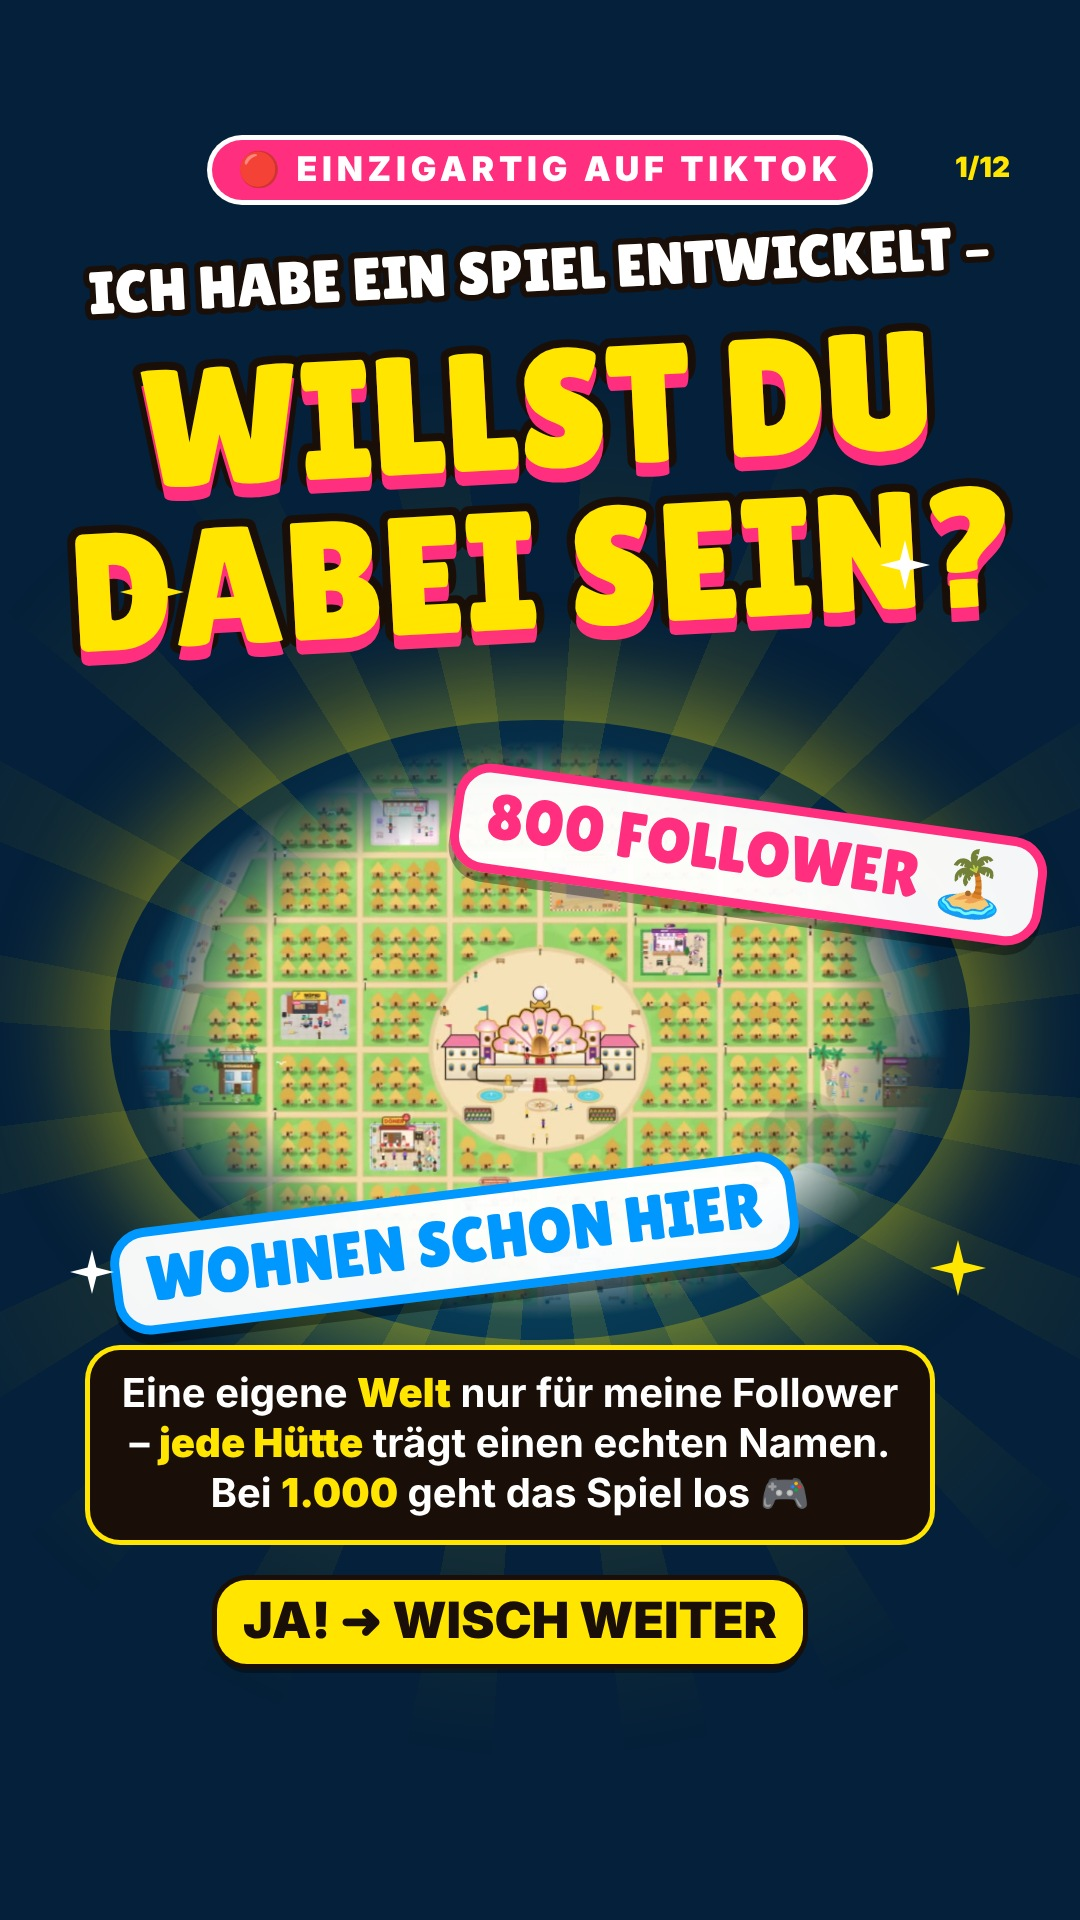
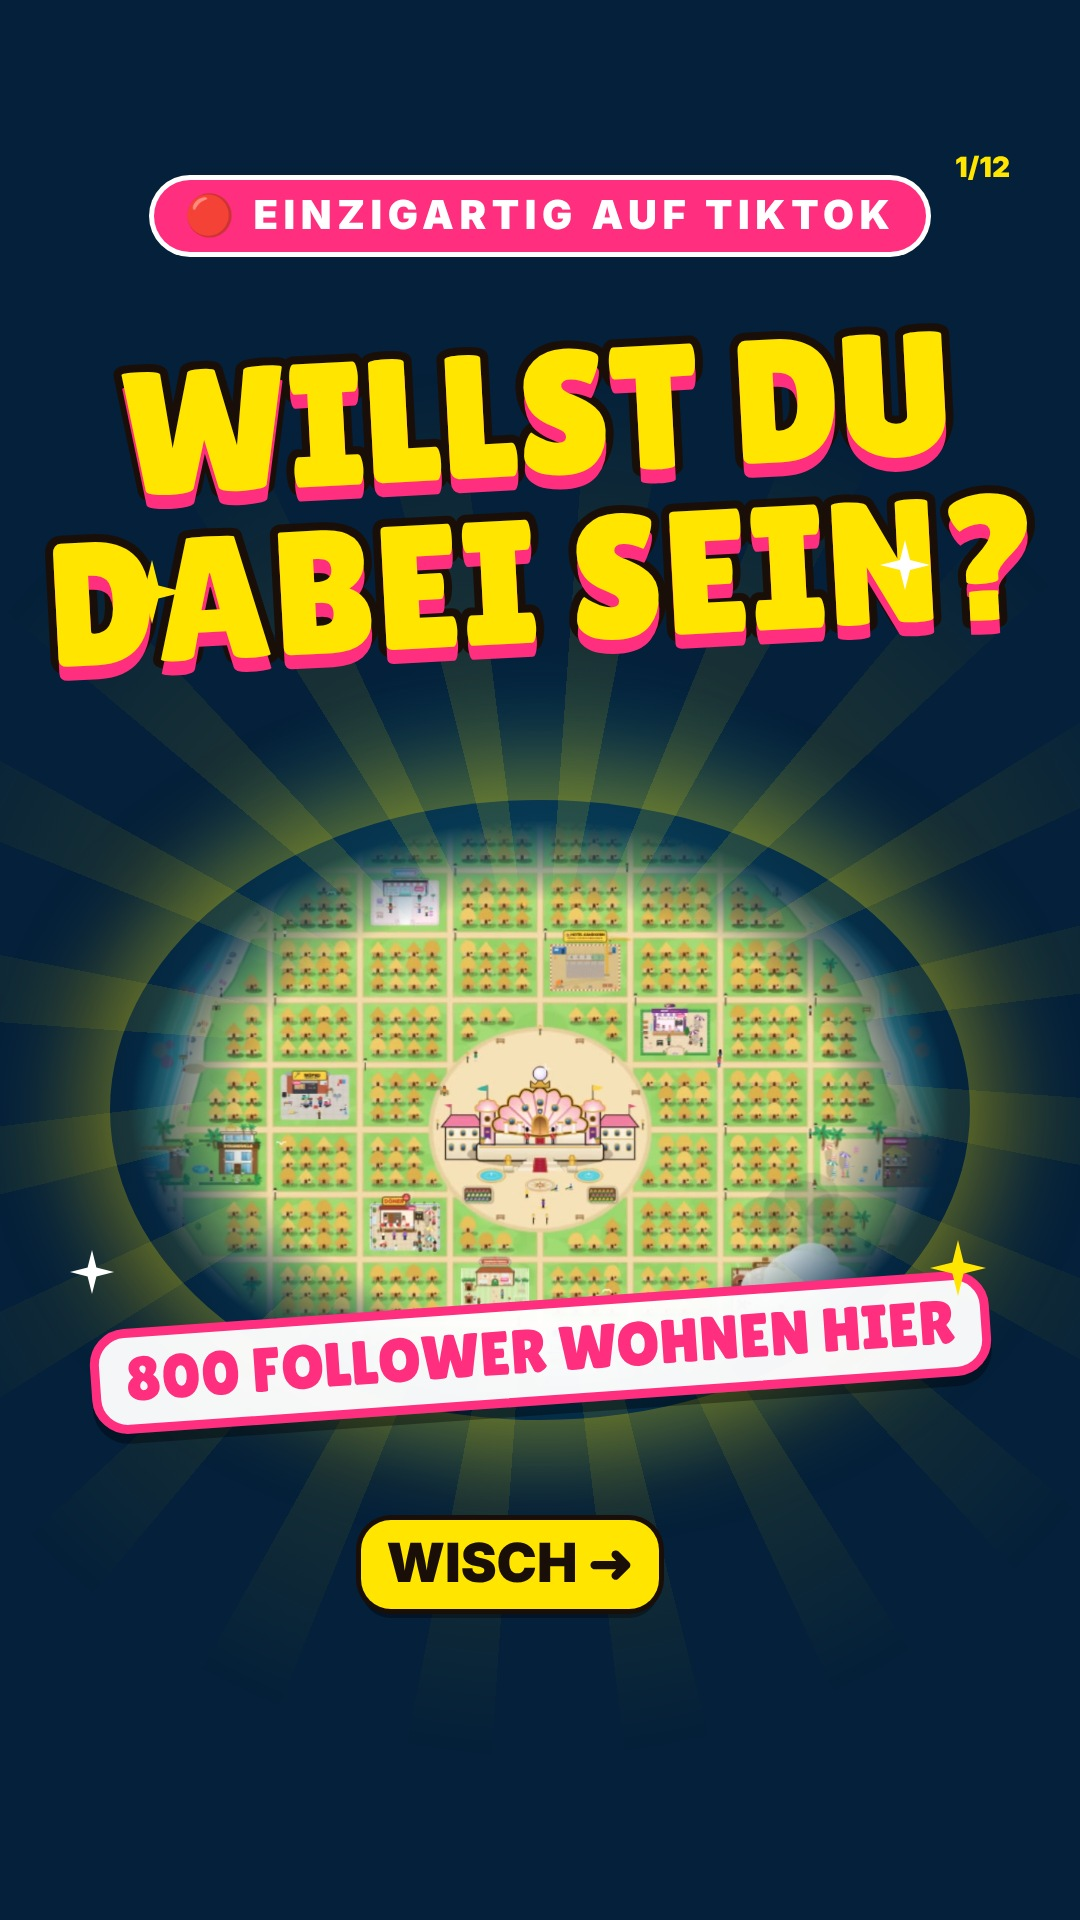
Galerie Folie 1: weniger Text
Claude-Session: https://claude.ai/code/session_01McNdgWwqfWZ56Gqk3h71JF

diff --git a/videos/muscheltal-galerie-spiel/seite_01.html b/videos/muscheltal-galerie-spiel/seite_01.html
@@ -32,4 +32,4 @@ body{width:1080px;height:1920px;overflow:hidden;position:relative;background:#04
 #mega2{position:absolute;left:0;right:0;top:395px;text-align:center;font-family:L;font-size:250px;line-height:.9;color:#ffe500;-webkit-text-stroke:16px #1a0f08;paint-order:stroke fill;text-shadow:0 14px 0 #ff2e7e;transform:rotate(-3deg)}
 #cardb{position:absolute;left:130px;width:820px;top:740px;height:580px;border-radius:50%;background:center/cover;-webkit-mask:radial-gradient(ellipse 50% 50% at 50% 50%,#000 72%,transparent 100%);filter:drop-shadow(0 0 60px rgba(40,220,255,.8))}
 #ring{position:absolute;left:110px;width:860px;top:720px;height:620px;border-radius:50%;box-shadow:0 0 90px 30px rgba(255,229,0,.35)}
-</style></head><body><div id="spot"></div><div id="rays"></div><div id="nr">1/12</div><div id="ep" class="pill" style="top:140px;font-size:34px;padding:8px 26px 11px;background:#ff2e7e;box-shadow:0 0 0 5px #fff">🔴 EINZIGARTIG AUF TIKTOK</div><div id="mega" style="top:240px;font-size:60px">ICH HABE EIN SPIEL ENTWICKELT –</div><div id="mega2" style="top:330px;font-size:168px;line-height:.95">WILLST DU<br>DABEI SEIN?</div><div id="ring"></div><div id="cardb" style="background-image:url(bilder/insel.jpg)"></div><div class="stampx" style="left:450px;top:800px;transform:rotate(8deg)">800 FOLLOWER 🏝</div><div class="stampx" style="left:110px;top:1190px;transform:rotate(-7deg);border-color:#0098ff;color:#0098ff">WOHNEN SCHON HIER</div><div id="sub" style="top:1350px">Eine eigene <b>Welt</b> nur für meine Follower – <b>jede Hütte</b> trägt einen echten Namen. Bei <b>1.000</b> geht das Spiel los 🎮</div><div id="chips" style="top:1580px"><div class="c ye" style="font-size:50px">JA! ➜ WISCH WEITER</div></div><svg class="sp" style="left:120px;top:560px;width:64px" viewBox="-10 -10 20 20"><path d="M0 -10 L2 -2 L10 0 L2 2 L0 10 L-2 2 L-10 0 L-2 -2Z" fill="#ffe500"/></svg><svg class="sp" style="left:880px;top:540px;width:50px" viewBox="-10 -10 20 20"><path d="M0 -10 L2 -2 L10 0 L2 2 L0 10 L-2 2 L-10 0 L-2 -2Z" fill="#fff"/></svg><svg class="sp" style="left:70px;top:1250px;width:44px" viewBox="-10 -10 20 20"><path d="M0 -10 L2 -2 L10 0 L2 2 L0 10 L-2 2 L-10 0 L-2 -2Z" fill="#fff"/></svg><svg class="sp" style="left:930px;top:1240px;width:56px" viewBox="-10 -10 20 20"><path d="M0 -10 L2 -2 L10 0 L2 2 L0 10 L-2 2 L-10 0 L-2 -2Z" fill="#ffe500"/></svg></body></html>
+</style></head><body><div id="spot"></div><div id="rays"></div><div id="nr">1/12</div><div id="ep" class="pill" style="top:180px;font-size:40px;padding:10px 30px 13px;background:#ff2e7e;box-shadow:0 0 0 5px #fff">🔴 EINZIGARTIG AUF TIKTOK</div><div id="mega2" style="top:330px;font-size:176px;line-height:.95">WILLST DU<br>DABEI SEIN?</div><div id="ring" style="top:800px"></div><div id="cardb" style="top:820px;background-image:url(bilder/insel.jpg)"></div><div class="stampx" style="left:0;right:0;margin:0 auto;width:fit-content;top:1300px;transform:rotate(-4deg);font-size:62px">800 FOLLOWER WOHNEN HIER</div><div id="chips" style="top:1520px"><div class="c ye" style="font-size:54px">WISCH ➜</div></div><svg class="sp" style="left:120px;top:560px;width:64px" viewBox="-10 -10 20 20"><path d="M0 -10 L2 -2 L10 0 L2 2 L0 10 L-2 2 L-10 0 L-2 -2Z" fill="#ffe500"/></svg><svg class="sp" style="left:880px;top:540px;width:50px" viewBox="-10 -10 20 20"><path d="M0 -10 L2 -2 L10 0 L2 2 L0 10 L-2 2 L-10 0 L-2 -2Z" fill="#fff"/></svg><svg class="sp" style="left:70px;top:1250px;width:44px" viewBox="-10 -10 20 20"><path d="M0 -10 L2 -2 L10 0 L2 2 L0 10 L-2 2 L-10 0 L-2 -2Z" fill="#fff"/></svg><svg class="sp" style="left:930px;top:1240px;width:56px" viewBox="-10 -10 20 20"><path d="M0 -10 L2 -2 L10 0 L2 2 L0 10 L-2 2 L-10 0 L-2 -2Z" fill="#ffe500"/></svg></body></html>

diff --git a/videos/muscheltal-galerie-spiel/galerie.py b/videos/muscheltal-galerie-spiel/galerie.py
@@ -54,14 +54,11 @@ for i, s in enumerate(S, 1):
     body = f'<div id="spot"></div><div id="rays"></div><div id="nr">{i}/{len(S)}</div>'
     if not s.get("last") and not s.get("first"): body += '<div id="swipe">wisch ➜</div>'
     if s.get("first"):
-        body += '<div id="ep" class="pill" style="top:140px;font-size:34px;padding:8px 26px 11px;background:#ff2e7e;box-shadow:0 0 0 5px #fff">🔴 EINZIGARTIG AUF TIKTOK</div>'
-        body += '<div id="mega" style="top:240px;font-size:60px">ICH HABE EIN SPIEL ENTWICKELT –</div>'
-        body += '<div id="mega2" style="top:330px;font-size:168px;line-height:.95">WILLST DU<br>DABEI SEIN?</div>'
-        body += '<div id="ring"></div><div id="cardb" style="background-image:url(bilder/insel.jpg)"></div>'
-        body += '<div class="stampx" style="left:450px;top:800px;transform:rotate(8deg)">800 FOLLOWER 🏝</div>'
-        body += '<div class="stampx" style="left:110px;top:1190px;transform:rotate(-7deg);border-color:#0098ff;color:#0098ff">WOHNEN SCHON HIER</div>'
-        body += '<div id="sub" style="top:1350px">Eine eigene <b>Welt</b> nur für meine Follower – <b>jede Hütte</b> trägt einen echten Namen. Bei <b>1.000</b> geht das Spiel los 🎮</div>'
-        body += '<div id="chips" style="top:1580px"><div class="c ye" style="font-size:50px">JA! ➜ WISCH WEITER</div></div>'
+        body += '<div id="ep" class="pill" style="top:180px;font-size:40px;padding:10px 30px 13px;background:#ff2e7e;box-shadow:0 0 0 5px #fff">🔴 EINZIGARTIG AUF TIKTOK</div>'
+        body += '<div id="mega2" style="top:330px;font-size:176px;line-height:.95">WILLST DU<br>DABEI SEIN?</div>'
+        body += '<div id="ring" style="top:800px"></div><div id="cardb" style="top:820px;background-image:url(bilder/insel.jpg)"></div>'
+        body += '<div class="stampx" style="left:0;right:0;margin:0 auto;width:fit-content;top:1300px;transform:rotate(-4deg);font-size:62px">800 FOLLOWER WOHNEN HIER</div>'
+        body += '<div id="chips" style="top:1520px"><div class="c ye" style="font-size:54px">WISCH ➜</div></div>'
     else:
         two = "<br>" in s["big"]
         body += f'<div id="ep" class="pill">{s["eyebrow"]}</div><div id="hd" class="pill">{s["head"]}</div><div id="big"' + (' style="font-size:100px"' if two else '') + f'>{s["big"]}</div>'
